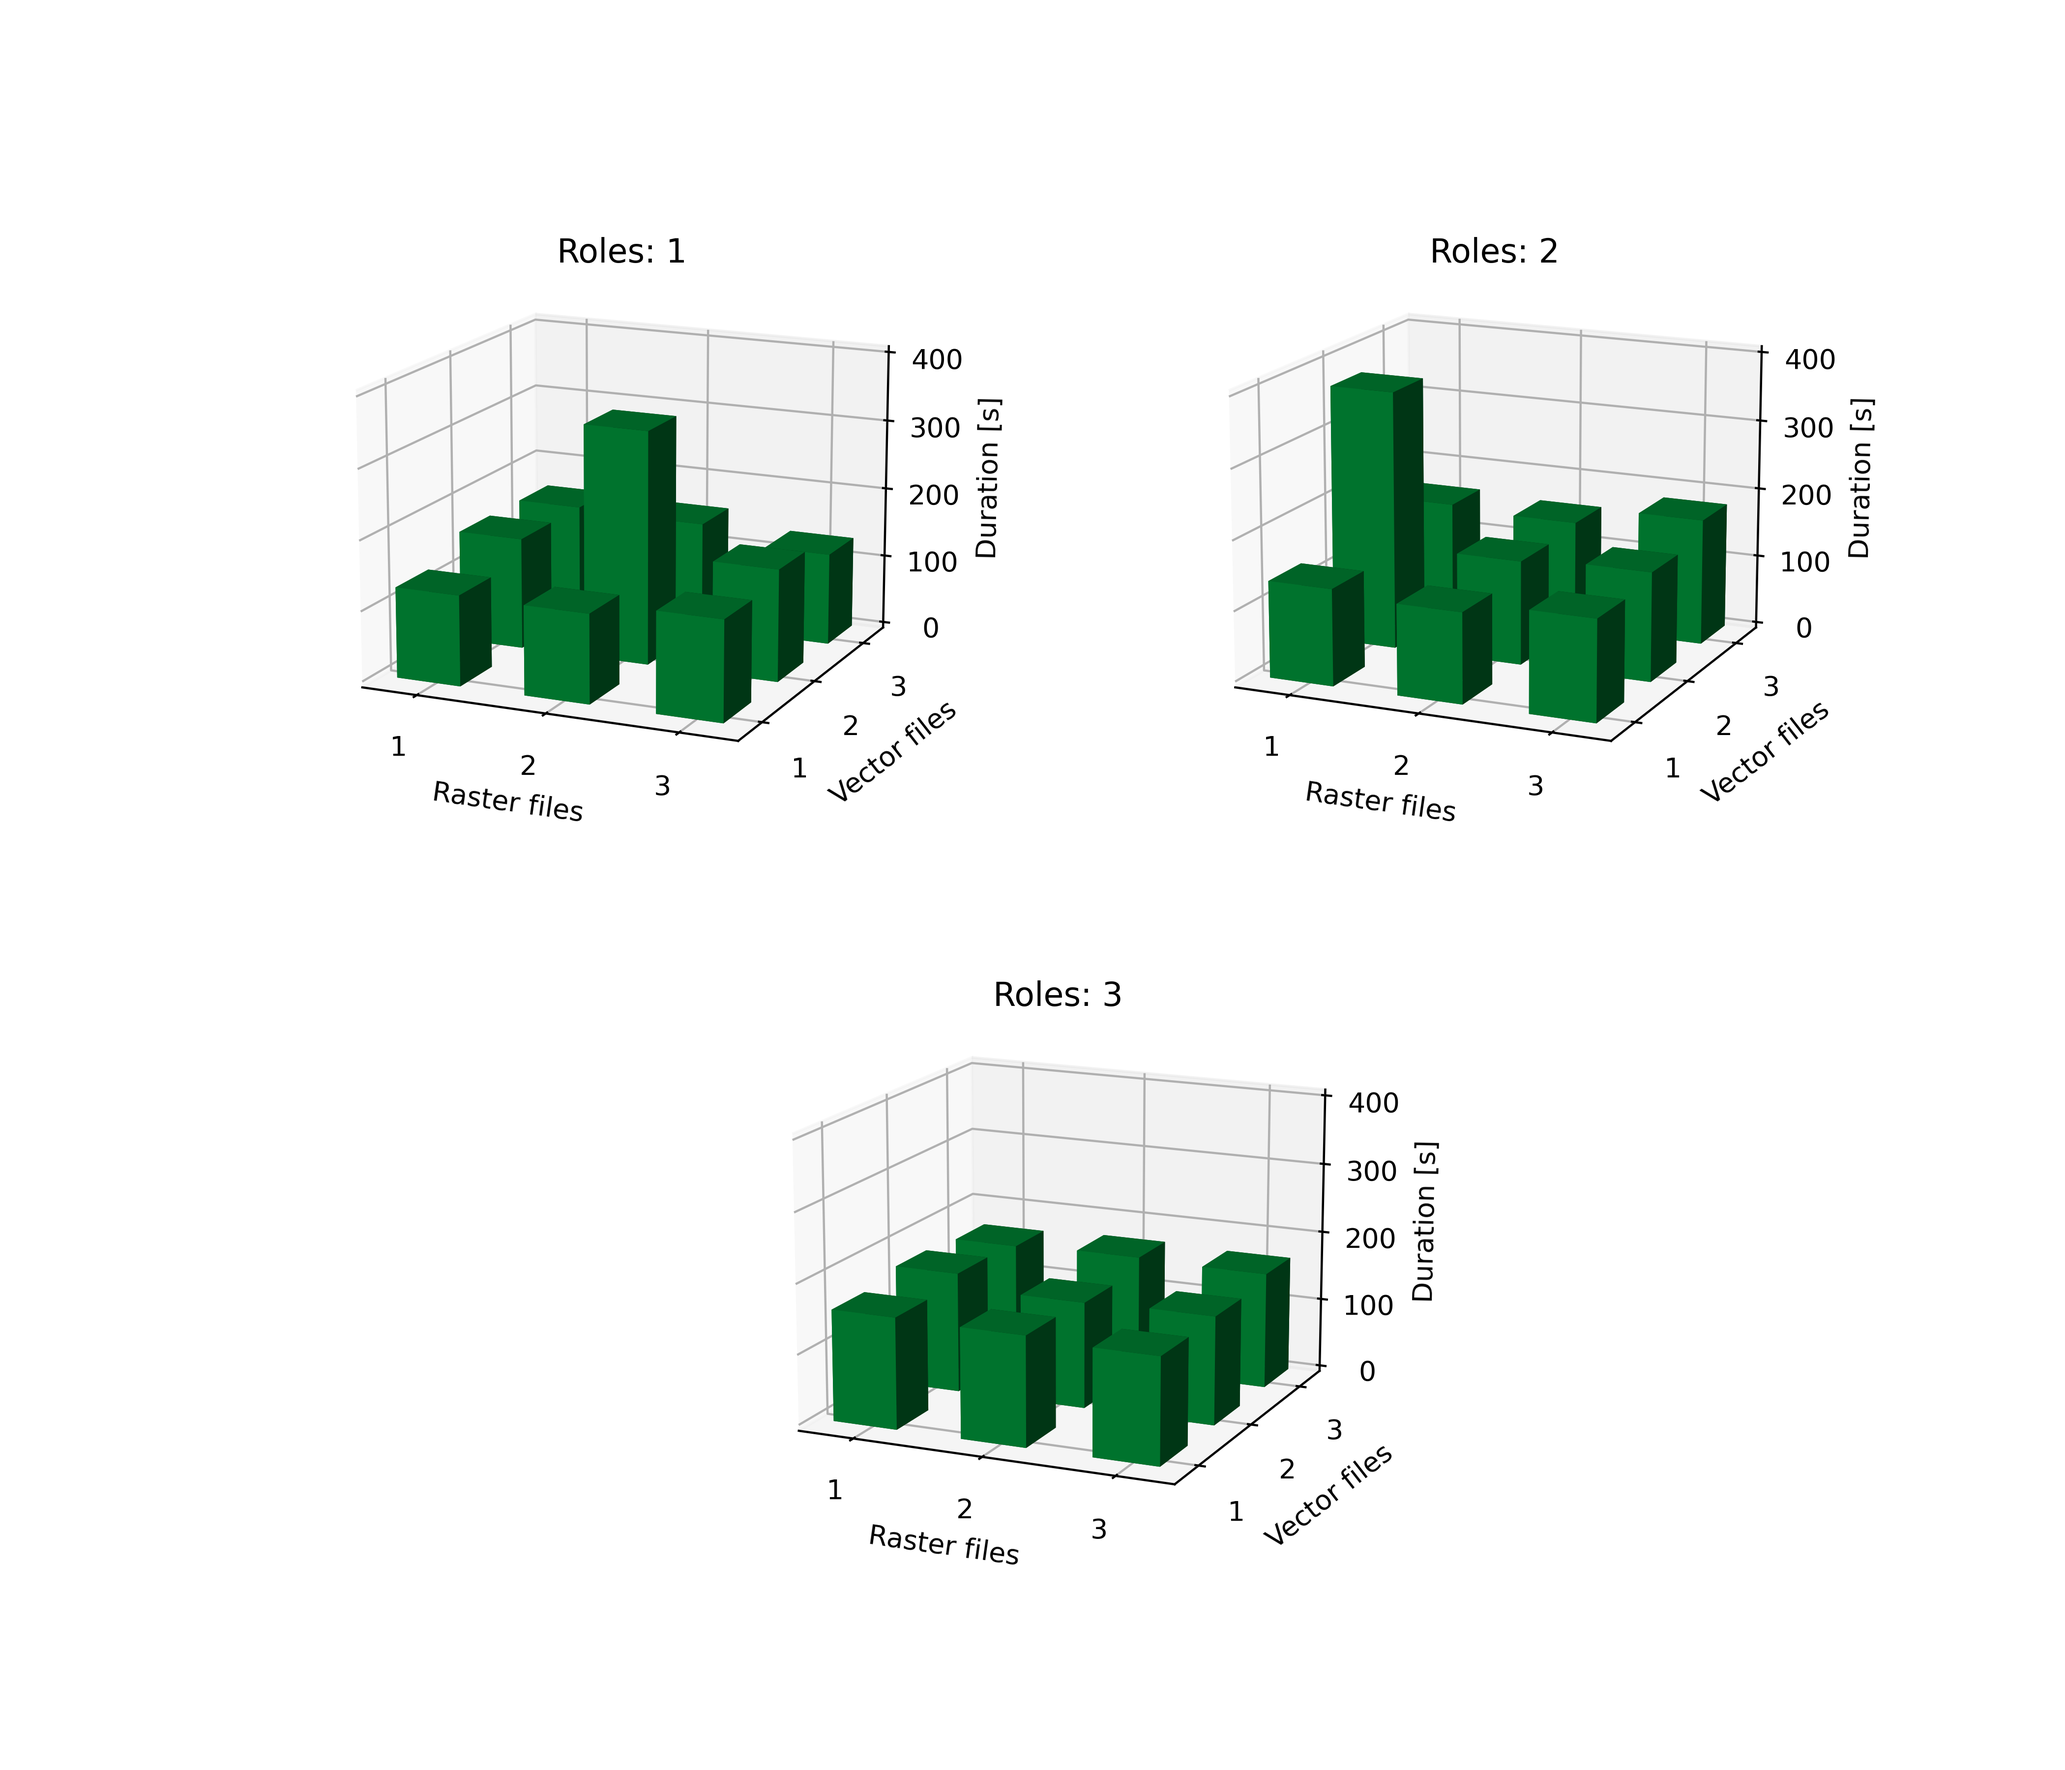
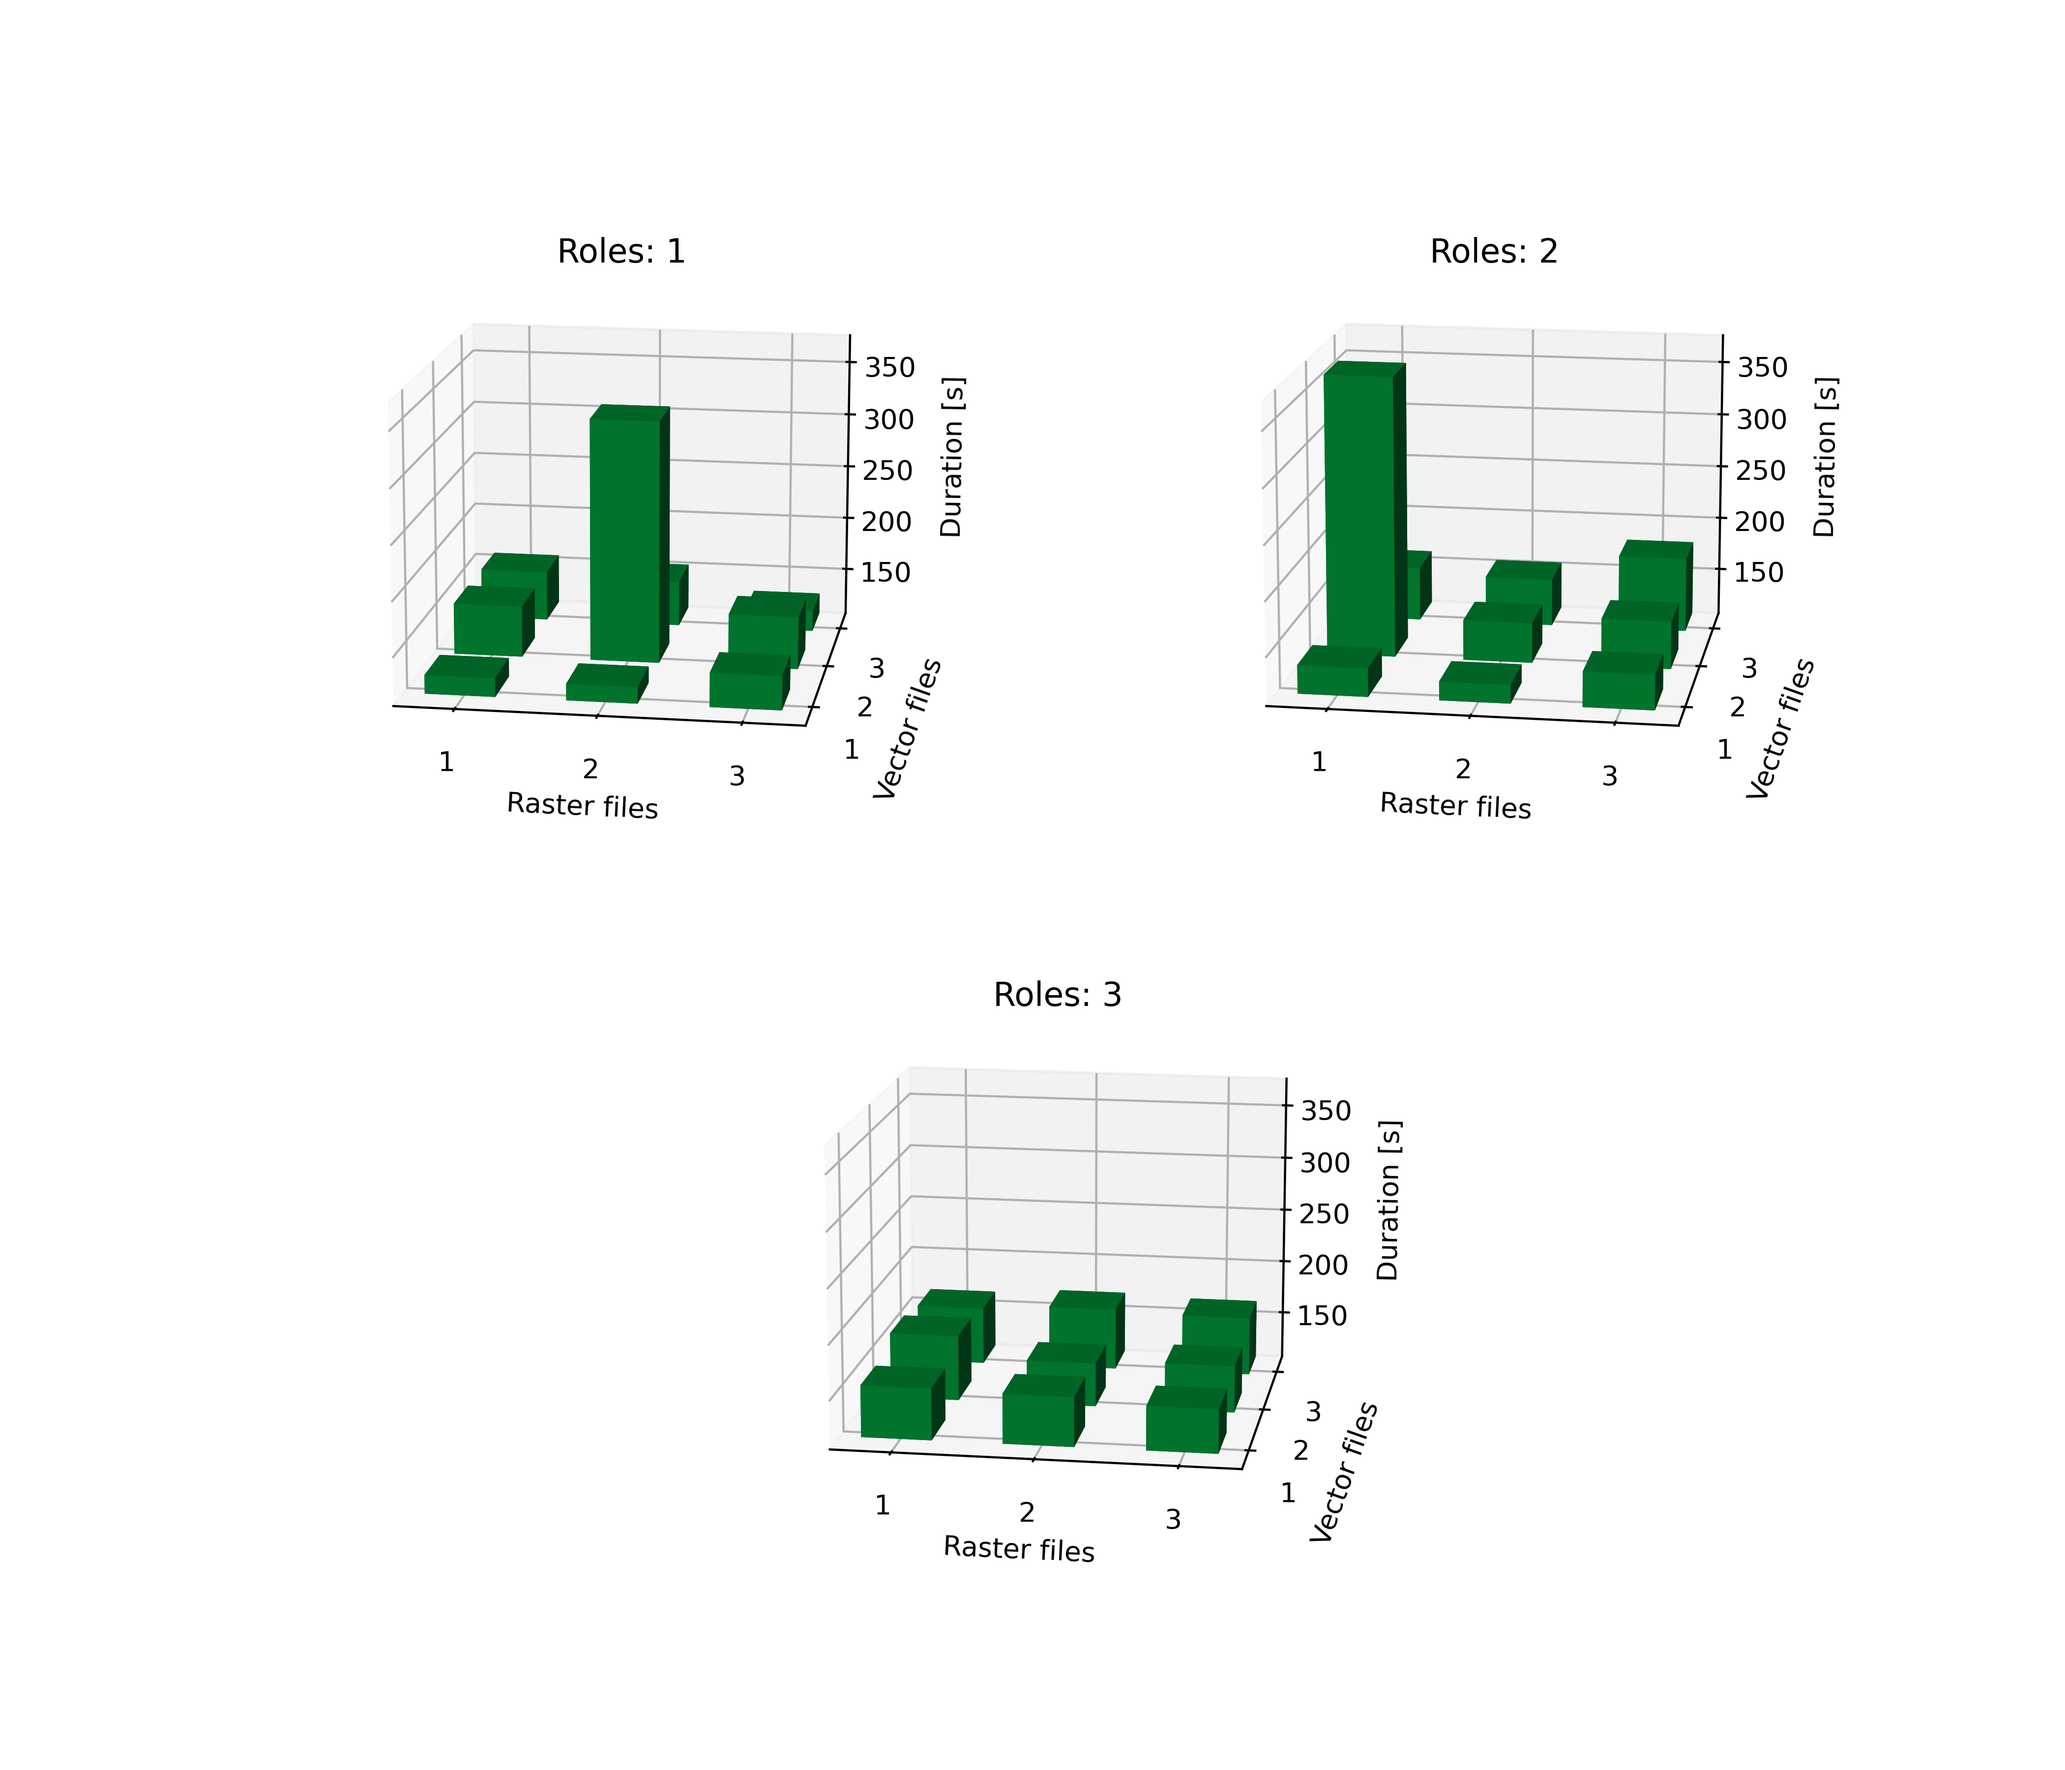
Scale axes to increase visibility

diff --git a/benchmark/results/plot.py b/benchmark/results/plot.py
@@ -1,5 +1,6 @@
 import matplotlib.pyplot as plt
 import numpy as np
+import sys
 
 def mean(list):
     return sum(durations) / len(durations)
@@ -16,8 +17,16 @@ def median(list):
 def distance(a, b):
     return (a - b) / b * 100
 
-def genFigure(iteration, durationTitle):
+def flattenIteration(iteration):
     durations = []
+    # Collect durations to get minimum
+    for rolesMatrix in iteration:
+        for rasterArray in rolesMatrix:
+            for duration in rasterArray:
+                durations.append(duration)
+    return durations
+
+def genFigure(iteration, durationTitle, durationMin, durationMax):
     figure = plt.figure(figsize=(10.5, 9))
     figure.tight_layout() # pad=0, w_pad=0, h_pad=0
     subplots = [
@@ -25,6 +34,7 @@ def genFigure(iteration, durationTitle):
         figure.add_subplot(2, 2, 2, projection='3d'),
         figure.add_subplot(2, 2, (3, 4), projection='3d')
     ]
+    durationOffset = 15
     # Generate a plot for each role
     for index, rolesMatrix in enumerate(iteration):
         roles = index + 1
@@ -42,10 +52,9 @@ def genFigure(iteration, durationTitle):
         dz = []
         for rasterArray in rolesMatrix:
             for w in rasterArray:
-                dz.append(w)
-        durations.extend(dz)
+                dz.append(w-durationMin+durationOffset)
         # Let each bar touch the ground
-        z = np.zeros_like(x)
+        z = np.repeat(durationMin-durationOffset, len(x))
         # Make each bar smaller such that there is space in between
         dx = dy = 1/2 * np.ones_like(z)
         # Shift each bar such that it is centered
@@ -59,13 +68,17 @@ def genFigure(iteration, durationTitle):
         # depth of each bar
         # height of each bar
         subplot.bar3d(x, y, z, dx, dy, dz, shade=True, color='#008233')
-        subplot.set_zlim((0, 400))
-        subplot.view_init(15, -66)
+        subplot.set_zlim(zmin=durationMin-durationOffset, zmax=durationMax)
+        # subplot.view_init(15, -66)
+        subplot.view_init(14, -81)
         subplot.set_title('Roles: ' + str(roles), y=0.97)
         subplot.set_xlabel('Raster files')
         subplot.set_ylabel('Vector files')
         subplot.set_zlabel(durationTitle)
-    return figure, durations
+        newLines = durationTitle.count("\n")
+        labelpad = 15 * newLines if newLines > 0 else 10
+        subplot.zaxis.labelpad = labelpad
+    return figure
 
 # DATA
 # x = number raster files
@@ -134,35 +147,29 @@ data = [
 ]]]
 
 # Generate a figure that takes the mean of all iterations
-meanIteration = [[
-    [0,0,0],
-    [0,0,0],
-    [0,0,0]
-    ],
-    [
-    [0,0,0],
-    [0,0,0],
-    [0,0,0]
-    ],
-    [
-    [0,0,0],
-    [0,0,0],
-    [0,0,0]
-    ]]
+meanIteration = np.zeros_like(data[0])
 for i in range(0, len(data)):
     iteration = data[i]
     for indexRoles, rolesMatrix in enumerate(iteration):
         for indexRaster, rasterArray in enumerate(rolesMatrix):
             for indexVector, duration in enumerate(rasterArray):
                 meanIteration[indexRoles][indexRaster][indexVector] += duration/len(data)
-fig, _ = genFigure(meanIteration, 'Arithmetic mean of duration [s]')
+durationsMean = flattenIteration(meanIteration)
+durationMinMean = min(durationsMean)
+durationMaxMean = max(durationsMean)
+fig = genFigure(meanIteration, 'Arithmetic mean\nof duration [s]', durationMinMean, durationMaxMean)
 fig.savefig(fname="benchmark.png", dpi=400)
 
-# Generate a figure for each benchmark iteration
+# Collect durations and compute min and max
 durations = []
+for iteration in data:
+    durations.extend(flattenIteration(iteration))
+durationMin = min(durations)
+durationMax = max(durations)
+
+# Generate a figure for each benchmark iteration
 for index, iteration in enumerate(data):
-    fig, d = genFigure(iteration, 'Duration [s]')
-    durations.extend(d)
+    fig = genFigure(iteration, 'Duration [s]', durationMin, durationMax)
     # Save figure
     fig.savefig(fname="benchmark-iteration-" + str(index+1) + ".png", dpi=400)
 
@@ -172,9 +179,7 @@ def roundStats(v):
 print("-- Statistics about duration --")
 mean = mean(durations)
 print("Arithmetic mean = {}s".format(roundStats(mean)))
-minimum = min(durations)
-print("Min = {}s = {:+}%".format(roundStats(minimum), roundStats(distance(minimum, mean))))
-maximum = max(durations)
-print("Max = {}s = {:+}%".format(roundStats(maximum), roundStats(distance(maximum, mean))))
+print("Min = {}s = {:+}%".format(roundStats(durationMin), roundStats(distance(durationMin, mean))))
+print("Max = {}s = {:+}%".format(roundStats(durationMax), roundStats(distance(durationMax, mean))))
 
 plt.show()
